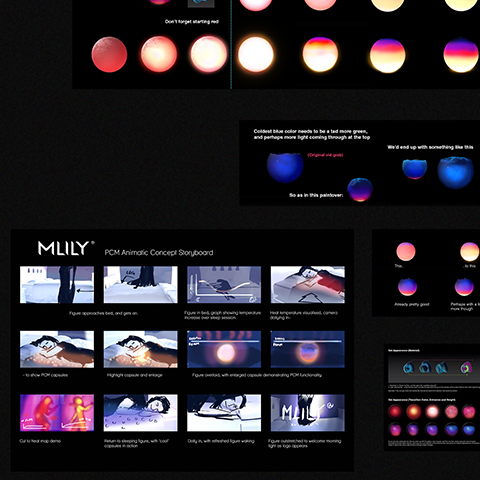
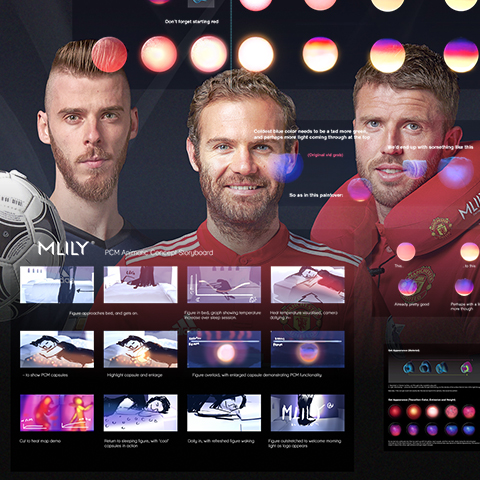
Update content and FIRETHATBASE!

diff --git a/src/data/projects.js b/src/data/projects.js
@@ -135,11 +135,11 @@ export const projectData = [
         ]
     },
     {
-        projectTitle: "Melbourne Pollen App Redesign",
+        projectTitle: "Melbourne Pollen Forecast App",
         projectSubtitle: "University of Melbourne",
         projectDescription: <div>
             <p><i>Melbourne Pollen</i> lets its users keep track of the level of pollen in the air, which is particularly beneficial for those prone to the effects of hay fever, seasonal asthma or other allergic conditions.</p>
-            <p>Just before the 2019 bushfires made air quality monitoring an increasing necessity for the general public, the team behind Pollen proposed a new progressive web app (PWA) that would incorporate additional broadcasts and user tools, superseding the existing service. We iterated with the Pollen team (who've been working pro bono!– <a href="https://www.melbournepollen.com.au/who-are-we/meet-team/" target="_blank">here they are</a>) to provide modular, adaptable designs to guide the development of their new app.</p>
+            <p>Just before the 2019 bushfires made air quality monitoring an increasing necessity for the general public, the team behind Pollen proposed a new progressive web app (PWA) that would incorporate additional broadcasts and user tools, superseding the existing service. We iterated with the Pollen team (who've been working pro bono!– <a href="https://www.melbournepollen.com.au/who-are-we/meet-team/" target="_blank">here they are</a>) on modular, adaptable designs to guide the development of their new app.</p>
         </div>,
         projectThumbnail: "./images/thumbnails/pollen_grid_thumb.jpg",
         projectTags: ["Progressive Web App", "Interaction Design", "User Interaction", "Style Guide", "Pollen"],
@@ -246,12 +246,6 @@ export const projectData = [
         projectTags: ["Graphic Design", "Pre-press", "VFX Production", "Animation & Compositing", "POS"],
         projectImages: [
             {
-                imageURL: "./images/mlily/mlily_pos_pullup_manu.jpg",
-                imageAlt: "MLILY Point of Sale Pullup Banner - Manchester United",
-                desktopContain: false,
-                mobileContain: false
-            },
-            {
                 imageURL: "./images/mlily/mlily_pcm_storyboard.jpg",
                 imageAlt: "MLILY PCM Active Touch Technology Storyboard",
                 desktopContain: true,
@@ -269,6 +263,12 @@ export const projectData = [
                 desktopContain: true,
                 mobileContain: true,
                 isVideo: true
+            },
+            {
+                imageURL: "./images/mlily/mlily_pos_pullup_manu.jpg",
+                imageAlt: "MLILY Point of Sale Pullup Banner - Manchester United",
+                desktopContain: false,
+                mobileContain: false
             },
             {
                 imageURL: "./images/mlily/mlily_pos_context.jpg",
@@ -367,16 +367,17 @@ export const projectData = [
             }
         ]
     },
-    
+
     {
-        projectTitle: "Red Country",
-        projectSubtitle: "Game Design Studio 2015",
+        projectTitle: "Bachelor of Design (Games)",
+        projectSubtitle: "RMIT University",
         projectDescription: <div>
-            <p><i>Red Country</i> was a real-time online multiplayer (and very student-made) game centred around uncertainty and deception, taking place in the fictional Red Country National Park. Unfortunate Red Country patrons are given no assurance of enemy or ally, relying on the tools available and the geography itself to survive a predatory doppelgänger.</p>
-            <p>As lead artist, I produced concept art and modelled many of our 3D assets. We were also required to submit <a href="https://youtu.be/A8NFMhy85SE" target="_blank">a trailer</a> with our game; I edited and produced the music for it. The voice clips following the intro are voice commands straight from the game, and if you can believe it, I voiced these as well as the intro!</p>
+            <p>Even though I specialised as a 2D artist, this program's emphasis on independent game development also had me learning how to work with object-oriented programming languages (such as C#), as well as how to sculpt, rig and animate 3D models.</p>
+            <p>Working collaboratively, I contributed concept art, generated 3D assets, produced team documents and presentations, consolidated the team's assets for implementation, and assisted our lead programmer with a bit of code. This cultivated a hollistic and sympathetic practice that has continually prepared me for so many industry-adjacent challenges.</p>
+            <p><a href="https://youtu.be/A8NFMhy85SE" target="_blank">Check out this trailer for our game 'Red Country'!</a></p>
         </div>,
         projectThumbnail: "./images/thumbnails/redcountry_thumb.jpg",
-        projectTags: ["Concept Art", "3D Modelling", "Level Design", "Video Editing", "Music Production"],
+        projectTags: ["Concept Art", "3D Modelling", "Low / High Poly", "Animation", "Object-oriented Programming", "Maya", "Unity", "A/V Production"],
         projectImages: [
             {
                 imageURL: "./images/redcountry/rc_cover.jpg",
